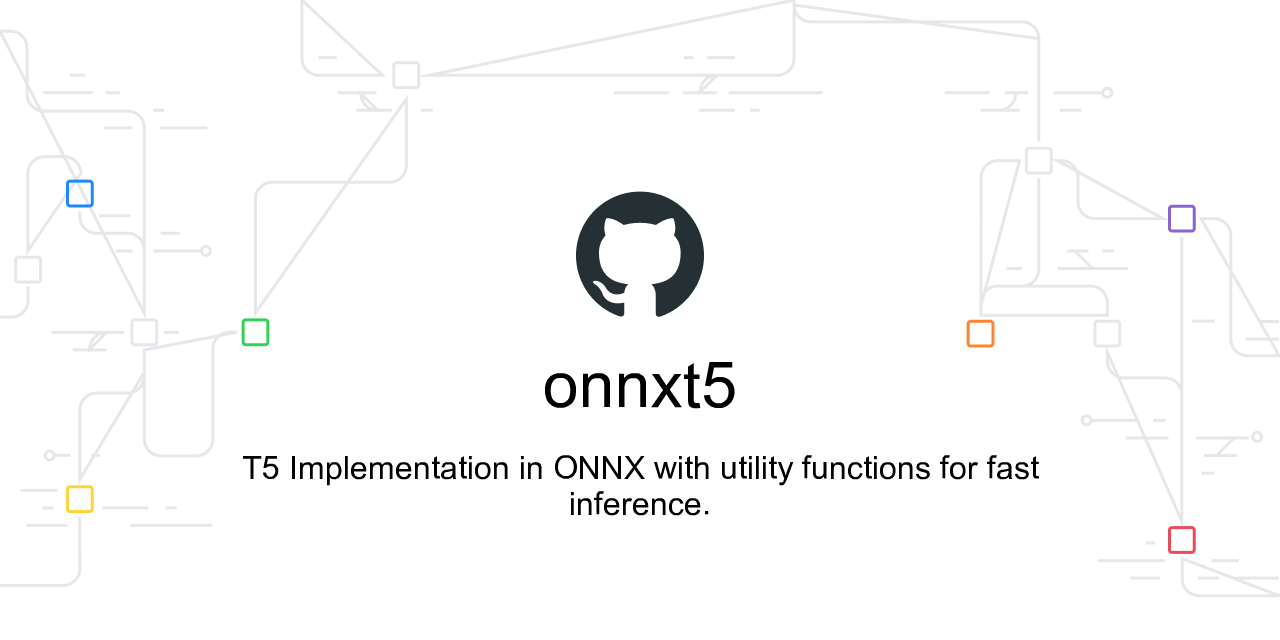
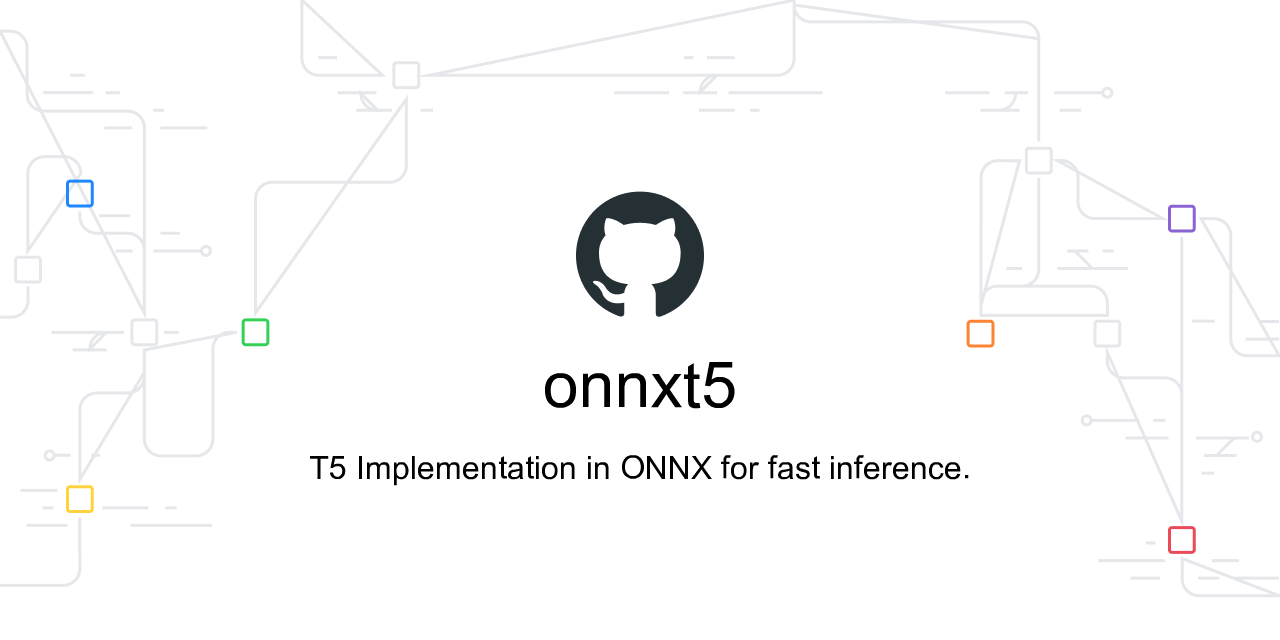
Adding social preview image

Changed region(s): [[0.1875, 0.6875, 0.8125, 0.75], [0.4375, 0.7812, 0.5625, 0.8125]]

diff --git a/README.md b/README.md
@@ -1,7 +1,8 @@
 # ONNX-T5
+![ONNX T5](https://github.com/abelriboulot/onnxt5/blob/master/data/social_preview.png?raw=true)
 [![Actions Status](https://github.com/abelriboulot/onnxt5/workflows/Tests/badge.svg)](https://github.com/abelriboulot/onnxt5/actions)
 
-T5 Implementation in ONNX with utility functions for fast inference. This package is still in alpha
+T5 Implementation in ONNX for fast NLP inference. This package is still in alpha
 stage, therefore some functionalities such as beam searches are still in development.
 
 ## Installation
